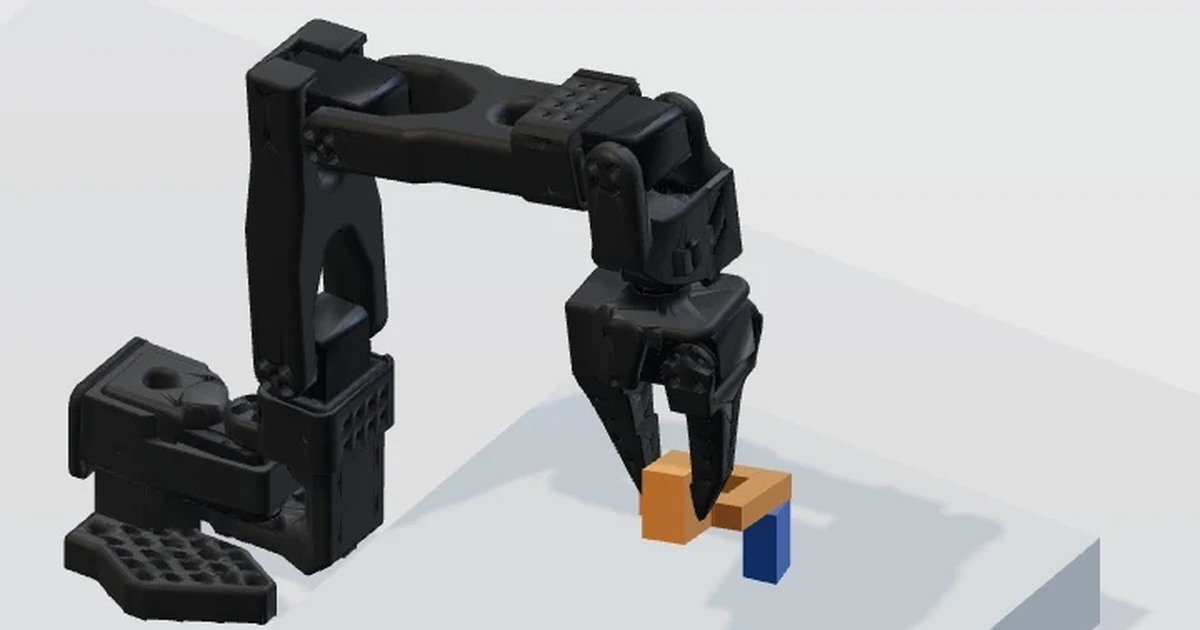
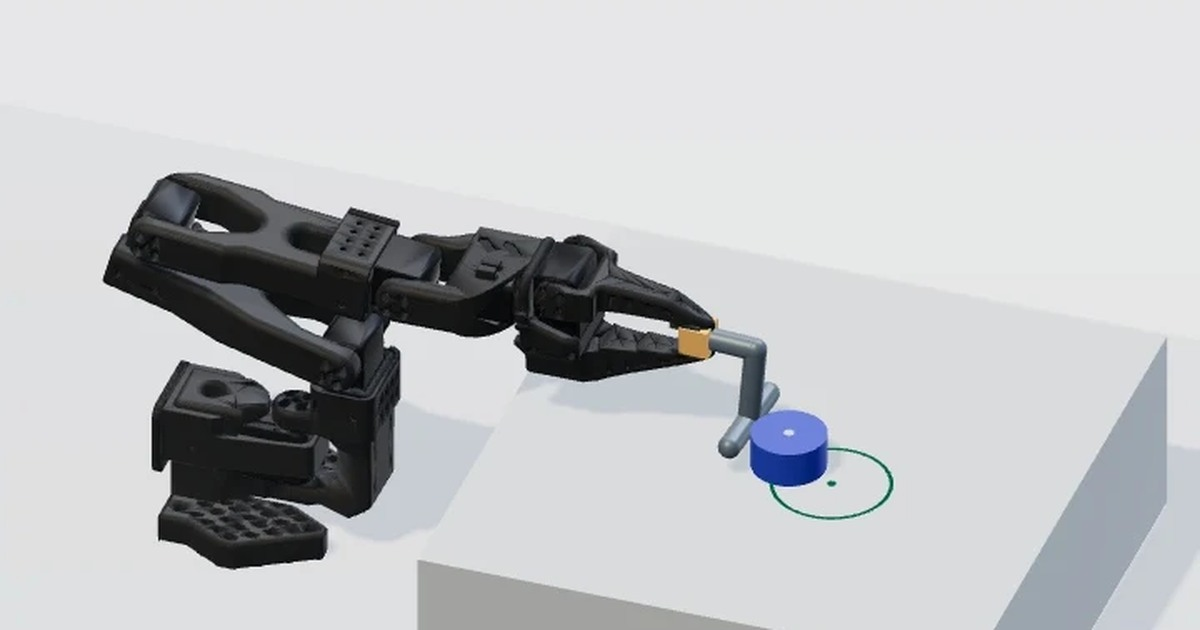
Focus the SO-101 demos on trained route and push selection

diff --git a/projects/so101-path-learning/article/src/content/arcbench.tsx b/projects/so101-path-learning/article/src/content/arcbench.tsx
@@ -7,7 +7,7 @@ import styles from "./smollertts.module.css";
 
 export const title = "Robot path learning with an SO-101 arm";
 export const description =
-  "I trained a simulated SO-101 to pick a route, then tested what it takes to grip a square nut and fit it onto a peg. Try the arm and see the training curve.";
+  "I trained an SO-101 arm to choose paths around obstacles and into a shelf, then tested whether it could pick a better stroke for pushing a puck.";
 
 const robot =
   "https://github.com/TheRobotStudio/SO-ARM100/tree/141aea7bcac2744d92998e30268c413202a56f96/Simulation/SO101";
@@ -42,98 +42,21 @@ export function ArcbenchArticle() {
           </div>
         </header>
         <p className={styles.lead}>
-          I started by teaching the arm to find a way around a fence. Then I
-          realised it could do the whole task with its jaws open. So I gave it a
-          square nut to pick up. In the relay below, watch the second pickup.
-          Both runs put the nut on the middle peg. Only one gets it back off.
+          How does a robot arm decide where to push a puck? I gave it seven
+          strokes and let it try each one from different starting positions.
+          Hit <em>Randomize layout</em> to see which stroke it picks from a
+          new starting position. I also trained the arm to choose a path around
+          a fence and reach inside a shelf without hitting the roof.
         </p>
         <Replays />
 
-        <h2 id="gripper-courses">Can the arm pick it up twice?</h2>
-        <p>
-          In the two-peg relay, the arm has to let go on the green peg and
-          grip the handle again before it can move the nut to the blue peg.
-          I tried 16 layouts with 2 mm of clearance per side. When the second
-          grasp used the nut’s pose from MuJoCo, it finished all 16. With the
-          second grasp estimate shifted 8 mm sideways, it finished none.
-          Both controllers follow scripted waypoints.
-        </p>
-        <p>
-          Try <strong>Rail transfer</strong> for the harder one. The nut starts
-          on a peg and there’s a 52 mm rail in the way. Touching it with the arm
-          or the nut costs the run. The high carry clears it in the featured
-          replay, but it touched the rail on all 16 test layouts. Seven nuts
-          still ended up seated. Looking at the final position alone would
-          have missed those collisions.
-        </p>
-
-        <h2 id="assembly">Getting the nut onto the peg</h2>
-        <p>
-          The arm has to pinch the handle, lift the nut over the peg, turn it to
-          match the square opening, then let go. I only count a run if both jaws
-          grip the nut, it lifts at least 35 mm, and it stays seated for half a
-          second after release. I used the SO-101 follower model for the arm and
-          adapted the square nut task from robosuite. The nut stays in the
-          fingers through friction in MuJoCo, so it can slip out.{" "}
-          <sup>
-            <a href="#ref-arm" aria-label="Reference 1">
-              [1]
-            </a>
-            ,{" "}
-            <a href="#ref-robosuite" aria-label="Reference 2">
-              [2]
-            </a>
-            ,{" "}
-            <a href="#ref-contact" aria-label="Reference 3">
-              [3]
-            </a>
-          </sup>
-        </p>
-        <p>
-          I scripted the gripper motions for this first test. I gave the arm a
-          peg position that was off by 5 mm. One controller used that estimate
-          all the way down. The other got the exact peg position from the
-          simulator for its final approach. I ran both on the same 32 layouts,
-          changing where the nut and peg started and which way they faced.
-        </p>
-        <div className={styles.tableScroll}>
-          <table aria-label="Nuts seated and released on 32 layouts">
-            <thead>
-              <tr>
-                <th>Clearance per side</th>
-                <th>Initial estimate</th>
-                <th>Recheck peg</th>
-                <th>Jaws open</th>
-              </tr>
-            </thead>
-            <tbody>
-              <tr>
-                <th scope="row">3 mm</th>
-                <td>29/32</td>
-                <td>32/32</td>
-                <td>0/32</td>
-              </tr>
-              <tr>
-                <th scope="row">1 mm</th>
-                <td>5/32</td>
-                <td>32/32</td>
-                <td>0/32</td>
-              </tr>
-            </tbody>
-          </table>
-        </div>
-        <p>
-          At 1 mm, both gripping controllers still lifted all 32 nuts. The
-          difference showed up when they tried to put them down. For the recheck I gave the arm an exact peg position from MuJoCo.
-        </p>
-
         <h2 id="training">How the arm learned to choose a path</h2>
         <p>
-          I used three setups across the six tasks. For obstacle reach and shelf
-          inspection, I trained a separate network for each task to score paths.
-          For puck pushing, I picked a stroke from similar layouts. For nut on
-          peg, rail transfer and the two-peg relay, I wrote the waypoints and
-          jaw commands myself.
+          For obstacle reach and shelf inspection, I trained a separate network
+          for each task to score the possible paths. For puck pushing, the arm
+          picks a stroke by looking up what worked on similar layouts. All three
+          use the same simulated SO-101 arm.{" "}
+          <sup><a href="#ref-arm" aria-label="Reference 1">[1]</a></sup>
         </p>
         <p>
           For the obstacle task I wrote 13 routes and trained a network to
@@ -230,8 +153,8 @@ export function ArcbenchArticle() {
           each controller on the same 96 layouts at every opening width,
           following the comparison approach in MotionBenchMaker.{" "}
           <sup>
-            <a href="#ref-planning" aria-label="Reference 4">
-              [4]
+            <a href="#ref-planning" aria-label="Reference 3">
+              [3]
             </a>
           </sup>
         </p>
@@ -328,9 +251,11 @@ export function ArcbenchArticle() {
 
         <p>
           In the 3D demo the paddle is loose. It starts between the fingers,
-          and the jaws squeeze the handle through the push. Switch to <em>Gripper
+          and the jaws squeeze the handle through the push.{" "}
+          <sup><a href="#ref-contact" aria-label="Reference 2">[2]</a></sup>{" "}
+          Switch to <em>Gripper
           view</em> to see it up close, or try <em>Release paddle</em> and it
-          drops. On the opening layout, pushing straight actually wins. Across
+          drops. On the featured puck layout, pushing straight actually wins. Across
           the same 64 test layouts, the original selector landed 21 pucks on
           target with the new grip. Pushing straight landed 7.
         </p>
@@ -400,15 +325,6 @@ export function ArcbenchArticle() {
                 TheRobotStudio.{" "}
                 <a href={robot}>SO-101 follower simulation model</a>. I used its
                 arm geometry and actuator settings.
-              </p>
-            </li>
-            <li id="ref-robosuite">
-              <p>
-                robosuite.{" "}
-                <a href="https://robosuite.ai/docs/modules/environments#nut-assembly">
-                  Nut Assembly
-                </a>
-                . The square nut and peg inspired the gripper task.
               </p>
             </li>
             <li id="ref-contact">

diff --git a/projects/so101-path-learning/web/app.js b/projects/so101-path-learning/web/app.js
@@ -4,13 +4,6 @@ import {buildScene} from './scene.js';
 
 const $ = id => document.getElementById(id);
 const config = {
-  relay: {title:'Two-peg relay',brief:'Seat the nut on the middle peg, release it, then pick it up again and move it to the final peg.',seed:2026,
-    sliders:[['clearance','Side clearance',1,4,2,'mm'],['bias','Regrasp estimate error',0,10,8,'mm']],methods:[['scripted','Measured regrasp'],['nominal','Estimated regrasp']]},
-  transfer: {title:'Rail transfer',brief:'Lift the nut off its peg, clear the rail and seat it on the far peg.',seed:2040,
-    sliders:[['clearance','Side clearance',1,4,2,'mm'],['rail','Rail height',38,62,52,'mm']],methods:[['scripted','Clear the rail'],['nominal','Low carry']]},
-  assembly: {title:'Nut on peg', brief:'Grip the handle, lift the nut and lower it onto the square peg.', seed:2026,
-    sliders:[['clearance','Side clearance',1,4,3,'mm'],['error','Peg estimate error',0,8,5,'mm']],
-    methods:[['scripted','Recheck peg'],['nominal','Initial estimate'],['open','Jaws open']]},
   puck: {title:'Puck push', brief:'Slide the blue puck into the target circle and let it settle.', seed:2402,
     sliders:[['distance','Push distance',45,77,60,'mm']], methods:[['learned','Learned push'],['direct','Straight push'],['release','Release paddle']]},
   shelf: {title:'Shelf inspection', brief:'Reach inside the shelf, hold at the target, then return home.', seed:720001,
@@ -21,7 +14,7 @@ const config = {
     methods:[['learned','Learned route'],['direct','Direct reach']]}
 };
 const url = new URL(location.href);
-let task = url.searchParams.get('task') || url.searchParams.get('study') || 'relay';
+let task = url.searchParams.get('task') || url.searchParams.get('study') || 'puck';
 if (!Object.hasOwn(config,task)) task='puck';
 let info, view, run, seed, mode='learned', ticket=0, time=0, playing=false, last=0, inspect=false;
 const reduced=matchMedia('(prefers-reduced-motion: reduce)');
@@ -65,7 +58,7 @@ function busy(on){
 async function simulate(){
   if(!view)return;
   const seq=++ticket;setPlay(false);busy(true);message('');$('loading').hidden=false;$('loading').textContent='Preparing replay…';
-  const query=new URLSearchParams({family:task==='relay'?7:task==='transfer'?6:task==='assembly'?5:task==='puck'?4:task==='shelf'?3:$('family').value,seed});
+  const query=new URLSearchParams({family:task==='puck'?4:task==='shelf'?3:$('family').value,seed});
   for(const [id] of config[task].sliders)query.set(id,$(id).value);
   try{
     let data=cache.get(query.toString());
@@ -93,7 +86,8 @@ function pick(key){
   mode=key;time=0;inspect=false;$('controller').value=key;view.gap(null);view.showRoute(key);view.paths($('paths').checked);
   const p=method();
   $('duration').textContent='/ '+p.seconds.toFixed(2)+' s';$('metrics').replaceChildren();
-  metric('Final outcome',outcomeText(p));metric('Layout',run.seed);if(p.stages)metric('Placements',p.completed+' / '+p.required);if(run.assembly){metric('Peak lift',p.lift_mm+' mm');metric('Seated after release',p.seated_s+' s');}else metric(task==='puck'?'Puck displacement':'Gripper travel',p.distance_mm+' mm');
+  metric('Final outcome',outcomeText(p));metric('Layout',run.seed);
+  metric(task==='puck'?'Puck displacement':'Gripper travel',p.distance_mm+' mm');
   metric(task==='shelf'?'Final home error':'Final target error',p.error_mm+' mm');
   if(task==='puck')metric('First puck contact',p.first_touch===null?'None':p.first_touch.toFixed(2)+' s');
   if(task==='shelf'){const g=p.gaps[closestIndex(p)];metric('Closest surfaces',pretty(g.link)+' / '+g.panel.toLowerCase());metric('Sampled clearance',g.mm.toFixed(2)+' mm');}
@@ -102,7 +96,7 @@ function pick(key){
 function closestIndex(p){return p.gaps.reduce((best,g,i)=>g.mm<p.gaps[best].mm?i:best,0);}
 function outcomeText(p){
   if(p.outcome==='contact')return mode==='release'?'Paddle dropped':'Contact';
-  if(p.outcome==='reached')return {relay:'Both placements complete',transfer:'Rail cleared and nut seated',assembly:'Seated and released',puck:'On target',shelf:'Inspection complete',reach:'Target reached'}[task];
+  if(p.outcome==='reached')return {puck:'On target',shelf:'Inspection complete',reach:'Target reached'}[task];
   if(task==='puck' && p.error_mm<=10 && !p.settled)return 'Still moving';
   return task==='puck'?'Outside target':'Missed tolerance';
 }
@@ -110,7 +104,7 @@ function progress(p,frame){
   const done=time>=p.seconds;
   const phase=done?outcomeText(p):time===0?'Ready':task==='puck'?
     (time>=2.8?'Settling':time>=2.24?'Withdrawing':p.first_touch!==null&&time>=p.first_touch?'Pushing':'Approaching puck'):
-    run.assembly?'Moving the nut':task==='reach'?'Reaching':time<3.6?'Entering shelf':time<4?'Holding position':'Returning home';
+    task==='reach'?'Reaching':time<3.6?'Entering shelf':time<4?'Holding position':'Returning home';
   let label=phase;
   if(task==='puck'){
     const mm=done?p.error_mm:1000*Math.hypot(frame[4][0]-run.goal[0],frame[4][1]-run.goal[1]);
@@ -153,7 +147,7 @@ $('paths').onchange=()=>view?.paths($('paths').checked);
 $('section').onchange=()=>view?.cutaway($('section').checked);
 $('camera').onchange=()=>view?.cameraView($('camera').value);
 $('resetView').onclick=()=>{$('camera').value='work';view?.reset();};
-const films={relay:'/relay.mp4',transfer:'/transfer.mp4',assembly:'/assembly.mp4',puck:'/puck.mp4',shelf:'/shelf.mp4',reach:'/demo.mp4'};
+const films={puck:'/puck.mp4',shelf:'/shelf.mp4',reach:'/demo.mp4'};
 $('watch').onclick=()=>{setPlay(false);$('filmTitle').textContent=config[task].title;$('video').src=films[task];$('film').showModal();$('video').play().catch(()=>{});};
 $('closeFilm').onclick=()=>$('film').close();$('film').onclose=()=>$('video').pause();
 function showResults(data){

diff --git a/projects/so101-path-learning/article/public/assets/writings/arcbench/replay/replay.js b/projects/so101-path-learning/article/public/assets/writings/arcbench/replay/replay.js
@@ -2,9 +2,6 @@ const $ = (id) => document.getElementById(id);
 import {mountDisclosure} from "./disclosure.mjs";
 mountDisclosure(document.querySelector("details"));
 const tasks = {
-  relay: {seed:2026,family:7,sliders:[["clearance","Side clearance",1,4,2,"mm"],["bias","Regrasp estimate error",0,10,8,"mm"]],methods:[["scripted","Measured regrasp"],["nominal","Estimated regrasp"]]},
-  transfer: {seed:2040,family:6,sliders:[["clearance","Side clearance",1,4,2,"mm"],["rail","Rail height",38,62,52,"mm"]],methods:[["scripted","Clear the rail"],["nominal","Low carry"]]},
-  assembly: {seed:2026, family:5, sliders:[["clearance","Side clearance",1,4,3,"mm"],["error","Peg estimate error",0,8,5,"mm"]], methods:[["scripted","Recheck peg"],["nominal","Initial estimate"],["open","Jaws open"]]},
   puck: {seed:2402, family:4, sliders:[["distance","Push distance",45,77,60,"mm"]], methods:[["learned","Learned push"],["direct","Straight push"],["release","Release paddle"]]},
   shelf: {seed:720001, family:3, sliders:[["width","Opening width",85,190,110,"mm"],["depth","Inspection depth",45,105,75,"mm"]], methods:[["learned","Learned route"],["fixed","Fixed route"],["direct","Direct reach"]]},
   reach: {seed:700000, family:0, sliders:[["offset","Fixture offset",-55,55,0,"mm"],["angle","Target rotation",-18,18,0,"°"]], methods:[["learned","Learned route"],["direct","Direct reach"]]}
@@ -93,13 +90,10 @@ function tick(now){
 function pick(){
   elapsed=0;pause();inspecting=false;view.gap(null);view.showRoute(mode.value);view.paths($("paths").checked);
   draw();
-  const p=route(),result=p.outcome==="reached"?({relay:"Both placements complete",transfer:"Rail cleared and nut seated",assembly:"Seated and released",puck:"On target",shelf:"Inspection complete",reach:"Target reached"})[task]:p.outcome==="contact"?(mode.value==="release"?"Paddle dropped":"Collision"):"Outside tolerance";
+  const p=route(),result=p.outcome==="reached"?({puck:"On target",shelf:"Inspection complete",reach:"Target reached"})[task]:p.outcome==="contact"?(mode.value==="release"?"Paddle dropped":"Collision"):"Outside tolerance";
   $("finish").textContent=mode.value==="release"?result:result+" · "+p.error_mm.toFixed(1)+" mm";
   const entries=[["Layout seed",run.seed],["Outcome",result],["Final error",p.error_mm+" mm"]];
-  if(p.stages) entries.push(["Placements",p.completed+" / "+p.required]);
-  if(task==="transfer") entries.push(["Rail contact",p.stages[0].rail_hit?"Yes":"No"]);
-  if(run.assembly) entries.push(["Peak lift",p.lift_mm+" mm"],["Seated after release",p.seated_s+" s"]);
-  else entries.push([task==="puck"?"Puck travel":"Gripper travel",p.distance_mm+" mm"]);
+  entries.push([task==="puck"?"Puck travel":"Gripper travel",p.distance_mm+" mm"]);
   if(shelf && p.gaps)entries.push(["Closest clearance",Math.min(...p.gaps.map(g=>g.mm)).toFixed(2)+" mm"]);
   if(task==="puck")entries.push(["First contact",p.first_touch==null?"None":p.first_touch.toFixed(2)+" s"]);
   if(p.push_steps>0)entries.push(["Both jaws held during push",(100*p.gripped_push_steps/p.push_steps).toFixed(1)+"%"]);

diff --git a/projects/so101-path-learning/article/src/content/arcbench-interactive.tsx b/projects/so101-path-learning/article/src/content/arcbench-interactive.tsx
@@ -7,20 +7,15 @@ import styles from "./arcbench.module.css";
 
 const assets = "/assets/writings/arcbench";
 const taskNames = {
-  relay: "Two-peg relay", transfer: "Rail transfer", assembly: "Nut on peg",
   reach: "Obstacle reach", shelf: "Shelf inspection", puck: "Puck push",
 } as const;
 const taskGroups = [
-  { name: "Scripted grips", tasks: ["relay", "transfer", "assembly"] },
   { name: "Supervised path scoring", tasks: ["reach", "shelf"] },
   { name: "Learned push selection", tasks: ["puck"] },
 ] as const;
 type Task = keyof typeof taskNames;
 
 const comparisons: Record<Task, readonly [string, string]> = {
-  relay: ["Estimated regrasp","Measured regrasp"],
-  transfer: ["Low carry","Clear the rail"],
-  assembly: ["Initial peg estimate", "Recheck peg position"],
   reach: ["Direct reach", "Learned route"],
   shelf: ["Direct reach", "Learned route"],
   puck: ["Straight push", "Learned push"],
@@ -222,11 +217,23 @@ function ComparisonFilm({ task }: { task: Task }) {
 }
 
 export function Replays() {
-  const [task, setTask] = useState<Task>("relay");
+  const [task, setTask] = useState<Task>("puck");
   const [orbit, setOrbit] = useState(true);
   useEffect(() => {
-    const requested = new URLSearchParams(window.location.search).get("task");
-    if (requested && Object.prototype.hasOwnProperty.call(taskNames, requested)) setTask(requested as Task);
+    const url = new URL(window.location.href);
+    const requested = url.searchParams.get("task");
+    if (requested && Object.prototype.hasOwnProperty.call(taskNames, requested)) {
+      setTask(requested as Task);
+    } else if (requested) {
+      url.searchParams.delete("task");
+    }
+    if (url.hash === "#gripper-courses" || url.hash === "#assembly") {
+      url.hash = "replays";
+      document.getElementById("replays")?.scrollIntoView();
+    }
+    if (url.href !== window.location.href) {
+      window.history.replaceState(window.history.state, "", url);
+    }
   }, []);
   function chooseTask(value: Task) {
     setTask(value);

diff --git a/projects/so101-path-learning/web/index.html b/projects/so101-path-learning/web/index.html
@@ -13,9 +13,9 @@
 </div></header>
 <main id="workbench" class="shell">
   <nav class="tasks" aria-label="Simulation tasks">
-    <button data-task="relay">Two-peg relay</button><button data-task="transfer">Rail transfer</button><button data-task="assembly">Nut on peg</button><button data-task="puck">Puck push</button><button data-task="shelf">Shelf inspection</button><button data-task="reach">Obstacle reach</button>
+    <button data-task="reach">Obstacle reach</button><button data-task="shelf">Shelf inspection</button><button data-task="puck">Puck push</button>
   </nav>
-  <section class="intro"><div><h1 id="sceneTitle">Two-peg relay</h1><p id="brief">Seat the nut on the middle peg, release it, then pick it up again and move it to the final peg.</p></div><button class="secondary" id="new" disabled>New layout</button></section>
+  <section class="intro"><div><h1 id="sceneTitle">Puck push</h1><p id="brief">Slide the blue puck into the target circle and let it settle.</p></div><button class="secondary" id="new" disabled>New layout</button></section>
   <section class="stage" aria-label="Simulation replay">
     <div id="viewport"><p id="loading" role="status">Loading the arm…</p></div>
     <div class="transport">

diff --git a/projects/so101-path-learning/article/src/app/writings/so101-path-learning/page.tsx b/projects/so101-path-learning/article/src/app/writings/so101-path-learning/page.tsx
@@ -6,7 +6,7 @@ const image = {
   url: "/assets/writings/arcbench/social.jpg",
   width: 1200,
   height: 630,
-  alt: "A black SO-101 arm holding a square nut over a blue peg in simulation",
+  alt: "A black SO-101 arm pushing a blue puck with a paddle in simulation",
 };
 
 export const metadata: Metadata = {

diff --git a/projects/so101-path-learning/record_comparisons.py b/projects/so101-path-learning/record_comparisons.py
@@ -70,8 +70,8 @@ def record(page, task, output):
                         if task=="reach":
                             draw.text((WIDTH*side+22,52),("Low fence","Tall post","Overhead zone")[section],
                                       font=font(18),fill="#555b62")
-                        if task=="assembly" and side==1 and idx==round(length*FPS*.47):
-                            pic.crop((0,85,720,463)).resize((1200,630),Image.Resampling.LANCZOS).save(output/"social.jpg",quality=91)
+                        if task=="puck" and side==1 and idx==round(length*FPS*.47):
+                            pic.crop((0,152,720,530)).resize((1200,630),Image.Resampling.LANCZOS).save(output/"social.jpg",quality=91)
                     draw.line((WIDTH-1,0,WIDTH-1,HEIGHT),fill="#aeb2b6",width=1)
                     if not section and idx==round(length*FPS*.47):
                         frame.save(output/(task+".webp"),quality=89)

diff --git a/projects/so101-path-learning/check_studio.py b/projects/so101-path-learning/check_studio.py
@@ -32,15 +32,10 @@ def main():
             assert page.locator("video").evaluate("v=>v.duration")>3
             page.locator("#closeFilm").click()
         ready()
-        expect(page.locator("#sceneTitle")).to_have_text("Two-peg relay")
+        expect(page.locator("#sceneTitle")).to_have_text("Puck push")
+        expect(page.locator("[data-task]")).to_have_text(["Obstacle reach", "Shelf inspection", "Puck push"])
         settings(True)
         expect(page.locator("#paths")).to_be_checked()
-        film("relay.mp4")
-        task("transfer")
-        seek(1000)
-        expect(page.locator("#outcome")).to_have_text("Rail cleared and nut seated")
-        film("transfer.mp4")
-        task("puck")
         settings(False)
         expect(page.locator("#settings")).not_to_have_attribute("open","")
         expect(page.locator("#outcome")).to_contain_text("Ready")

diff --git a/projects/so101-path-learning/README.md b/projects/so101-path-learning/README.md
@@ -1,18 +1,14 @@
 # SO-101 path learning
 
-The simulator runs six SO-101 tasks in MuJoCo. Try a two-peg relay, a transfer over a rail, a square nut on a peg, a puck push, a shelf inspection or an obstacle reach. Choose a controller and scrub the replay to see where strategies diverge. Settings include layout adjustments, planned paths, camera angles and measurements.
+The simulator runs three SO-101 tasks in MuJoCo. Obstacle reach and shelf inspection use trained path scorers. Puck push chooses a paddle stroke from similar training layouts. Choose a controller and scrub the replay to see where strategies diverge. Settings include layout adjustments, planned paths, camera angles and measurements.
 
 ![SO-101 pushing a blue puck across a raised work surface](media/simulator.png)
 
-[Watch the nut and peg comparison](web/assembly.mp4) · [Watch the puck comparison](web/puck.mp4) · [Watch the shelf comparison](web/shelf.mp4) · [Shelf study](SHELF_STUDY.md) · [Obstacle reach results](RESULTS.md) · [Run autoresearch](program.md)
+[Watch the obstacle reach comparison](web/demo.mp4) · [Watch the puck comparison](web/puck.mp4) · [Watch the shelf comparison](web/shelf.mp4) · [Shelf study](SHELF_STUDY.md) · [Obstacle reach results](RESULTS.md) · [Run autoresearch](program.md)
 
 [Run the interactive article locally](article/README.md). It includes the video player, 3D viewer, interactive training curve and per-run data.
 
 ## Start with these replays
-
-**Two-peg relay** requires two separate grips, lifts and stable releases. The measured regrasp controller gets the simulated nut pose for the second pickup. Compare it with a biased pose estimate on the same layout. **Rail transfer** starts on a peg and adds a collision-checked rail between the two pegs. Change the rail height and compare the two carry heights. Both are scripted controllers. Run `python course_study.py` to reproduce the [paired pilot](experiments/courses/pilot.json).
-
-In **Nut on peg**, try **Jaws open** first. The arm traces the complete path but leaves the nut on the table. Switch to **Initial estimate** or **Recheck peg** to see the fingers grip the handle. Reduce the side clearance to 1 mm and compare the two placements on the same layout.
 
 In **Puck push**, both controllers get the same 60 mm opening layout. The learned stroke finishes 14.62 mm from the target center and the straight stroke finishes 9.50 mm away. Success requires the jaws to hold the paddle throughout puck contact, a clean stroke, a final error of at most 10 mm and a final puck speed below 5 mm/s. Choose **Release paddle** to see what happens when the arm opens its jaws.
 
@@ -36,7 +32,7 @@ The default URL is http://127.0.0.1:8766/. The browser uses WebGL 2 and the incl
 
 ## Puck push study
 
-[Robot path learning with an SO-101 arm](https://dunlichan.com/writings/so101-path-learning/) includes the gripper simulator, measured training curve, paddle comparison and surface-transfer test. To reproduce the transfer test on the original 64 layouts, run `python puck_transfer.py --workers 6`. It keeps both controllers frozen, checks each nominal outcome against the original trials and writes [the per-run results](experiments/puck/transfer.json).
+[Robot path learning with an SO-101 arm](https://dunlichan.com/writings/so101-path-learning/) includes the path-learning simulator, measured training curve, paddle comparison and surface-transfer test. To reproduce the transfer test on the original 64 layouts, run `python puck_transfer.py --workers 6`. It keeps both controllers frozen, checks each nominal outcome against the original trials and writes [the per-run results](experiments/puck/transfer.json).
 
 In the original wrist-mounted paddle experiment, the controller learns which of seven lateral paddle offsets to use from the outcomes of 192 simulated training layouts. It estimates the cost of each action using nearby layouts in starting position, push direction and distance. Validation on 48 separate layouts selected three neighbors. On 64 held-out layouts, the learned push succeeded 45 times with 12.0 mm mean endpoint error. The straight push succeeded 18 times with 20.1 mm mean error. Validation selected the straight push as the best constant action. These figures describe one simulated puck, paddle, friction setting and split. [Model](experiments/puck/push.json) · [Episode data](experiments/puck/episodes.json)
 

diff --git a/README.md b/README.md
@@ -4,6 +4,6 @@ Each project lives under `projects/` with its simulator, experiments and demo.
 
 | Project | What you can run |
 | --- | --- |
-| [SO-101 path learning](projects/so101-path-learning/) | Six MuJoCo arm tasks, trained path selectors, scripted gripper comparisons and the [interactive article](https://dunlichan.com/writings/so101-path-learning/) |
+| [SO-101 path learning](projects/so101-path-learning/) | Three MuJoCo arm tasks, supervised path scoring, learned push selection and the [interactive article](https://dunlichan.com/writings/so101-path-learning/) |
 
 To run the first project on Windows, open **Start SO-101.cmd** inside its folder. The [project README](projects/so101-path-learning/README.md) includes the Linux commands, training instructions and evaluation results. The upstream autoresearch checkout is pinned as an optional submodule.
